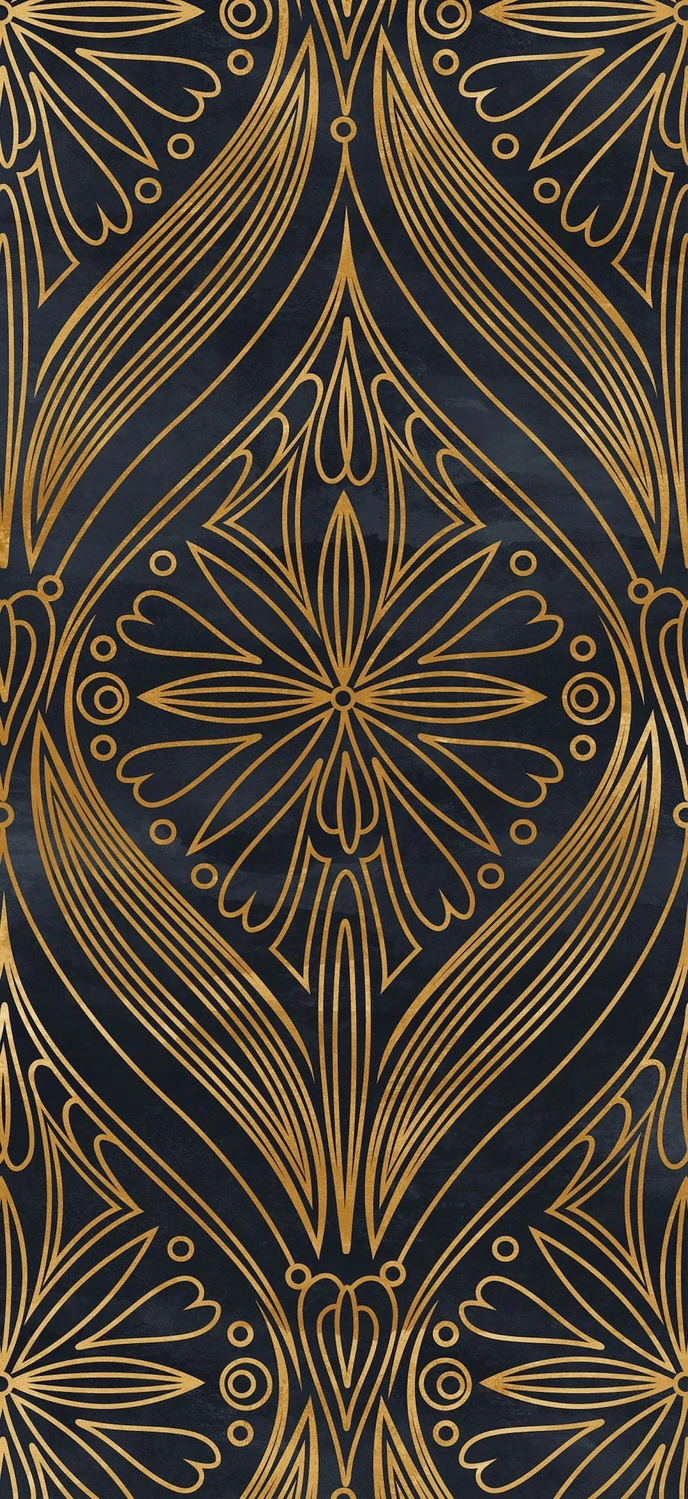
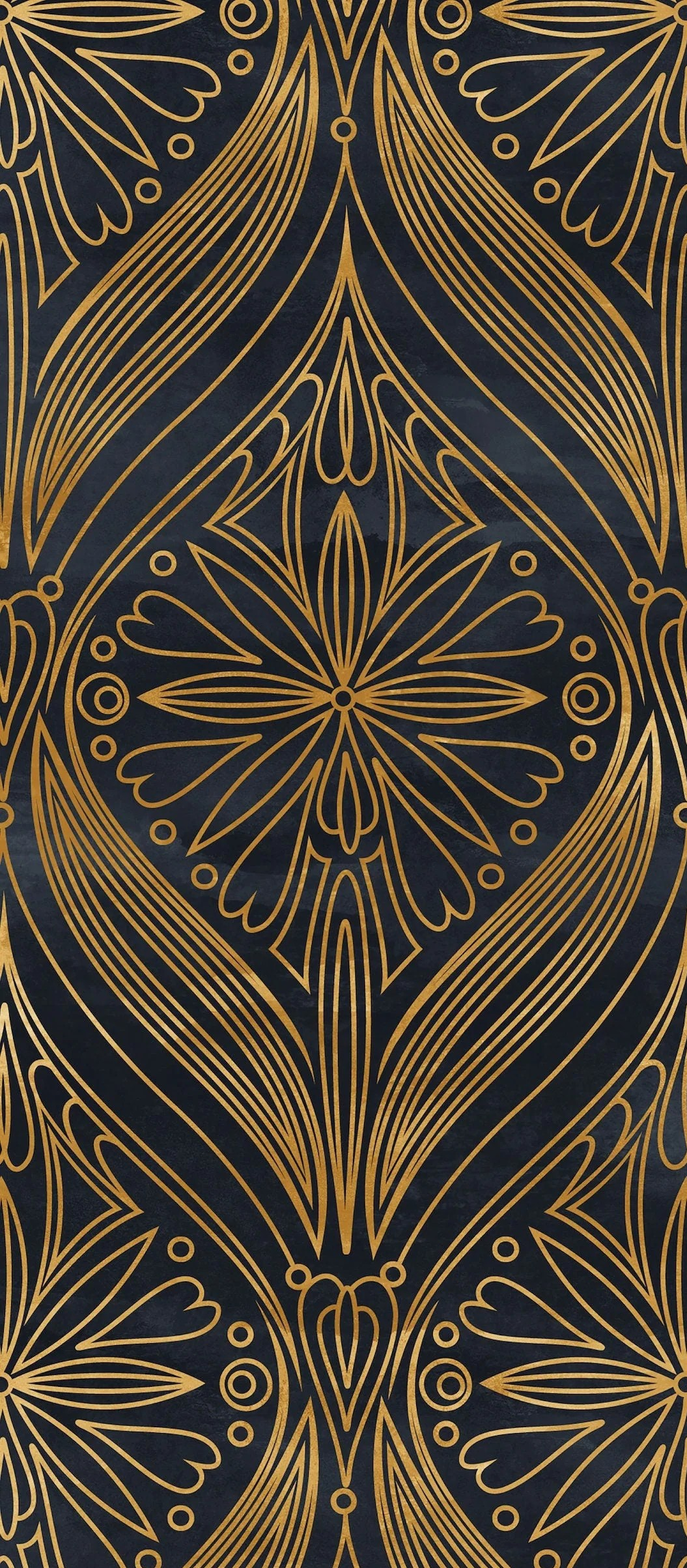
Draft of RD Cabinet, new wallpaper

diff --git a/_drafts/RD-cabinet.css b/_drafts/RD-cabinet.css
@@ -1,0 +1,285 @@
+/* ==========================================================================
+   LIQUOR CABINET — RD (Rachel's Downstairs Art Deco Gold & Navy Edition)
+   Matches the repeating Wallpaper.jpg background, fonts, and color scheme
+   of RD.html while preserving the classic Liquor Cabinet layout.
+   ========================================================================== */
+
+:root {
+    --bg-base: #14191f;                     /* Deep Art Deco Navy/Charcoal */
+    --bg-surface: rgba(18, 22, 28, 0.92);   /* Translucent Dark Navy Panel */
+    --bg-surface-solid: #12161c;            /* Solid Dark Navy */
+    --bg-surface-alt: #1c222b;              /* Elevated Navy Button Layer */
+    --gold-primary: #d8b25c;                /* Metallic Gold Heading */
+    --gold-border: #c89d45;                 /* Antique Gold Border */
+    --text-primary: #f4e8c8;                /* Soft Champagne Cream */
+    --text-secondary: #e8d39e;              /* Warm Pale Gold */
+    --text-muted: #b89f6d;                  /* Muted Antique Gold */
+
+    --font-display: 'Cinzel', Georgia, serif;
+    --font-serif: 'Playfair Display', Georgia, serif;
+    --font-sans: 'Montserrat', -apple-system, BlinkMacSystemFont, 'Segoe UI', Roboto, sans-serif;
+}
+
+* {
+    box-sizing: border-box;
+}
+
+body {
+    margin: 0;
+    font-family: var(--font-sans);
+    background-color: var(--bg-base);
+    background-image: url('../RD/Wallpaper.jpg');
+    background-repeat: repeat;
+    background-position: top center;
+    background-size: auto 100vh;
+    background-attachment: fixed;
+    color: var(--text-primary);
+    text-align: center;
+    justify-content: center;
+    align-items: center;
+}
+
+header {
+    background: var(--bg-surface);
+    color: var(--gold-primary);
+    padding: 28px 20px;
+    text-align: center;
+    border-top: 4px double var(--gold-border);
+    border-bottom: 4px double var(--gold-border);
+    box-shadow: 0 8px 30px rgba(0, 0, 0, 0.7);
+}
+
+h1 {
+    margin: 0;
+    font-family: var(--font-display);
+    font-size: clamp(1.8rem, 4vw, 3rem);
+    font-weight: 700;
+    color: var(--gold-primary);
+    letter-spacing: 0.12em;
+    text-transform: uppercase;
+    text-shadow: 0 2px 10px rgba(0, 0, 0, 0.6);
+}
+
+main {
+    max-width: 960px;
+    margin: 28px auto;
+    padding: 24px 20px 32px;
+    background: var(--bg-surface);
+    border: 4px double var(--gold-border);
+    box-shadow: 0 12px 40px rgba(0, 0, 0, 0.75);
+}
+
+h2 {
+    margin-bottom: 12px;
+    margin-top: 8px;
+    font-size: 26px;
+    font-family: var(--font-display);
+    font-weight: 700;
+    color: var(--gold-primary);
+    letter-spacing: 0.1em;
+    text-transform: uppercase;
+}
+
+h3 {
+    margin-top: 24px;
+    margin-bottom: 12px;
+    font-size: 26px;
+    font-family: var(--font-display);
+    font-weight: 700;
+    color: var(--gold-primary);
+    letter-spacing: 0.1em;
+    text-transform: uppercase;
+}
+
+ul {
+    list-style: none;
+    text-align: center;
+    padding: 0;
+    max-width: 820px;
+    margin: 16px auto;
+}
+
+ul li {
+    font-size: 15px;
+    line-height: 1.65;
+    color: var(--text-primary);
+    padding: 12px 16px;
+    border-bottom: 1px solid rgba(200, 157, 69, 0.25);
+}
+
+ul li:last-of-type {
+    border-bottom: none;
+}
+
+ul li:not(:first-of-type) {
+    margin-top: 0.5em;
+}
+
+ul li:not(:last-of-type) {
+    margin-bottom: 0.5em;
+}
+
+ul li strong {
+    font-family: var(--font-display);
+    font-size: 18px;
+    font-weight: 700;
+    color: var(--gold-primary);
+    letter-spacing: 0.05em;
+}
+
+ul li em {
+    font-family: var(--font-sans);
+    font-style: italic;
+    color: var(--text-secondary);
+}
+
+nav {
+    margin: 20px;
+}
+
+nav a {
+    color: var(--gold-primary);
+    text-decoration: none;
+    padding: 10px 15px;
+}
+
+nav a:hover {
+    background: var(--gold-border);
+    color: var(--bg-base);
+}
+
+.container {
+    width: 80%;
+    margin: auto;
+    overflow: hidden;
+}
+
+button {
+    font-size: 14px;
+    font-weight: 600;
+    padding: 8px 16px;
+    margin: 5px 4px;
+    border: 2px solid var(--gold-border);
+    border-radius: 4px;
+    text-decoration: none;
+    background-color: var(--bg-surface-solid);
+    color: var(--text-secondary);
+    font-family: var(--font-sans);
+    letter-spacing: 0.08em;
+    text-transform: uppercase;
+    cursor: pointer;
+    transition: all 0.2s ease;
+}
+
+button:hover {
+    background-color: var(--gold-border);
+    color: var(--bg-base);
+    border-color: var(--gold-primary);
+    box-shadow: 0 0 12px rgba(216, 178, 92, 0.45);
+}
+
+.category-btn {
+    background-color: var(--bg-surface-solid);
+    color: var(--gold-primary);
+    border: 2px solid var(--gold-border);
+    font-family: var(--font-sans);
+    font-size: 14px;
+    font-weight: 600;
+    padding: 8px 16px;
+}
+
+.category-btn:hover {
+    background-color: var(--gold-border);
+    color: var(--bg-base);
+    border-color: var(--gold-primary);
+    box-shadow: 0 0 12px rgba(216, 178, 92, 0.5);
+}
+
+.subcategory-btn {
+    background-color: var(--bg-surface-alt);
+    color: var(--text-secondary);
+    border: 1.5px solid var(--gold-border);
+    font-family: var(--font-sans);
+    font-size: 13px;
+    padding: 7px 14px;
+}
+
+.subcategory-btn:hover {
+    background-color: var(--gold-border);
+    color: var(--bg-base);
+}
+
+.subcategory2-btn {
+    background-color: #252d3a;
+    color: var(--text-primary);
+    border: 1.5px solid var(--text-muted);
+    font-family: var(--font-sans);
+    font-size: 13px;
+    padding: 7px 14px;
+}
+
+.subcategory2-btn:hover {
+    background-color: var(--gold-border);
+    color: var(--bg-base);
+    border-color: var(--gold-primary);
+}
+
+section {
+    padding-top: 0;
+    padding-bottom: 0;
+}
+
+footer {
+    background: var(--bg-surface);
+    color: var(--text-primary);
+    text-align: center;
+    padding: 20px 0 28px 0;
+    position: relative;
+    bottom: 0;
+    width: 100%;
+    border-top: 4px double var(--gold-border);
+    border-bottom: 4px double var(--gold-border);
+    box-shadow: 0 -8px 30px rgba(0, 0, 0, 0.7);
+}
+
+#hardcore-btn {
+    border: none;
+    background: none;
+    padding: 0;
+    margin-bottom: 10px;
+    cursor: pointer;
+    box-shadow: none;
+}
+
+#hardcore-btn:hover {
+    background: none;
+    box-shadow: none;
+}
+
+.menu-footer {
+    background: var(--bg-surface);
+    color: var(--text-primary);
+    text-align: center;
+    padding: 0;
+    position: relative;
+    bottom: 0;
+    width: 100%;
+    border-top: 4px double var(--gold-border);
+}
+
+.menu-footer img {
+    margin-top: 10px;
+    margin-bottom: 10px;
+    border-radius: 12px;
+    box-shadow: 0 2px 8px rgba(0, 0, 0, 0.5);
+}
+
+.active-btn,
+button.active-btn {
+    background-color: var(--gold-primary) !important;
+    color: var(--bg-base) !important;
+    border-color: #f4e8c8 !important;
+    box-shadow: 0 0 14px rgba(216, 178, 92, 0.65) !important;
+    font-weight: 700 !important;
+}
+

diff --git a/_drafts/RD-cabinet.html b/_drafts/RD-cabinet.html
@@ -1,0 +1,65 @@
+<!DOCTYPE html>
+<html lang="en">
+<head>
+    <meta charset="UTF-8">
+    <meta name="viewport" content="width=device-width, initial-scale=1.0">
+    <title>My Liquor Cabinet — Rachel's Downstairs Edition</title>
+    <link rel="preconnect" href="https://fonts.googleapis.com">
+    <link rel="preconnect" href="https://fonts.gstatic.com" crossorigin>
+    <link href="https://fonts.googleapis.com/css2?family=Cinzel:wght@400;500;600;700;800;900&family=Playfair+Display:ital,wght@0,500;0,700;1,400&family=Montserrat:wght@400;500;600;700&display=swap" rel="stylesheet">
+    <link rel="stylesheet" href="RD-cabinet.css">
+</head>
+<body>
+    <header>
+        <h1>Welcome to the Liquor Cabinet</h1>
+<!---     <a href="todays-menu.html">
+            <button class="category-btn" style="margin-top: 10px;">Go to Today's Menu</button>
+        </a>
+        
+--->
+    </header>
+    <main>
+        <section>
+            <h2>Categories</h2>
+            <div id="categories">
+                <button class="category-btn" onclick="showSubcategories('whiskey')">Whiskey</button>
+                <button class="category-btn" onclick="showSubcategories('gin')">Gin</button>
+                <button class="category-btn" onclick="showSubcategories('others')">Others</button>
+                <button class="category-btn" onclick="showSubcategories('amaro')">Amaro et al.</button>
+                <button class="category-btn" onclick="showSubcategories('new')">Recent Aquistions</button>
+               <!-- <button class="category-btn" onclick="showSubcategories('beer')">Beer</button> -->
+            </div>
+        </section>
+        <section>
+            <div id="subcategories">
+                <!-- Subcategory buttons will be dynamically added here -->
+            </div>
+        </section>
+        <section>
+            <div id="subcategories2">
+                <!-- Subcategory buttons will be dynamically added here -->
+            </div>
+        </section>
+        <section>
+            <h3 id="tipples-heading">Tipples</h3>
+            <ul id="drinks-list">
+                <!-- Drinks will be displayed here -->
+            </ul>
+        </section>
+    </main>
+    <footer>
+        <div>
+            <button id="hardcore-btn" style="border: none; background: none;">
+                <img src="../whiskeyman.png" alt="WooHoo!" width="300" height="300">
+            </button>
+        </div>
+        <button id="retired-btn">Retired Friends</button>
+        <a href="../stave.html">
+            <button class="category-btn">Stave</button>
+        </a>
+    </footer>
+    <script src="../scripts/drinkdata.js"></script>
+    <script src="../scripts/liqourcabinet.js"></script>
+</body>
+</html>
+
